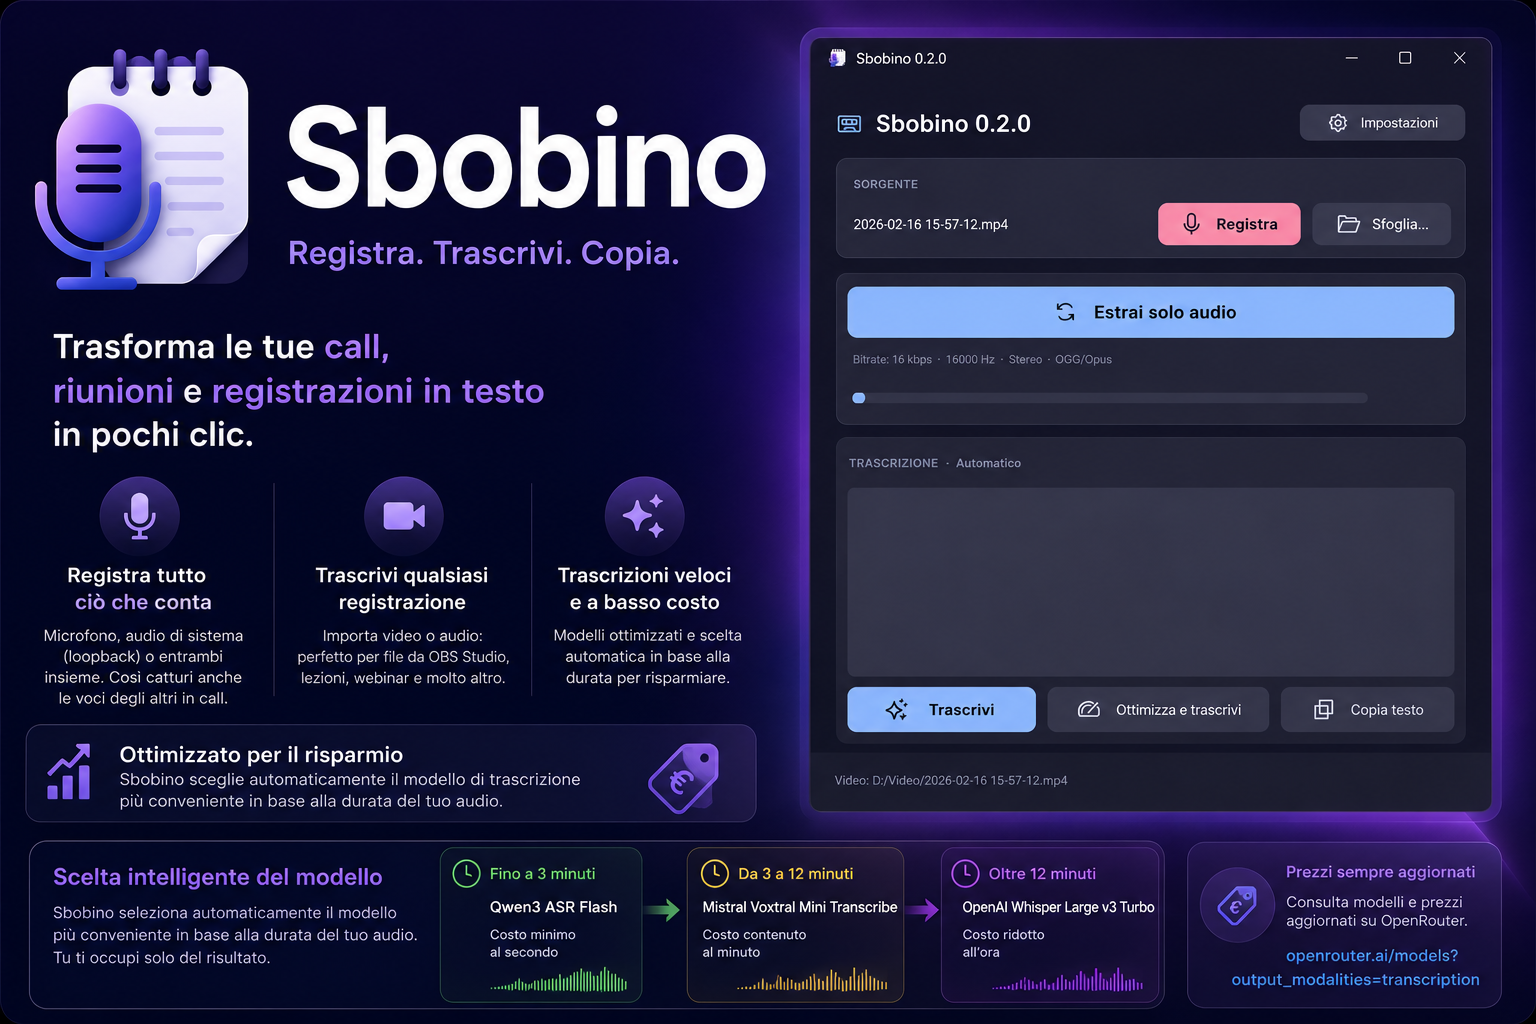
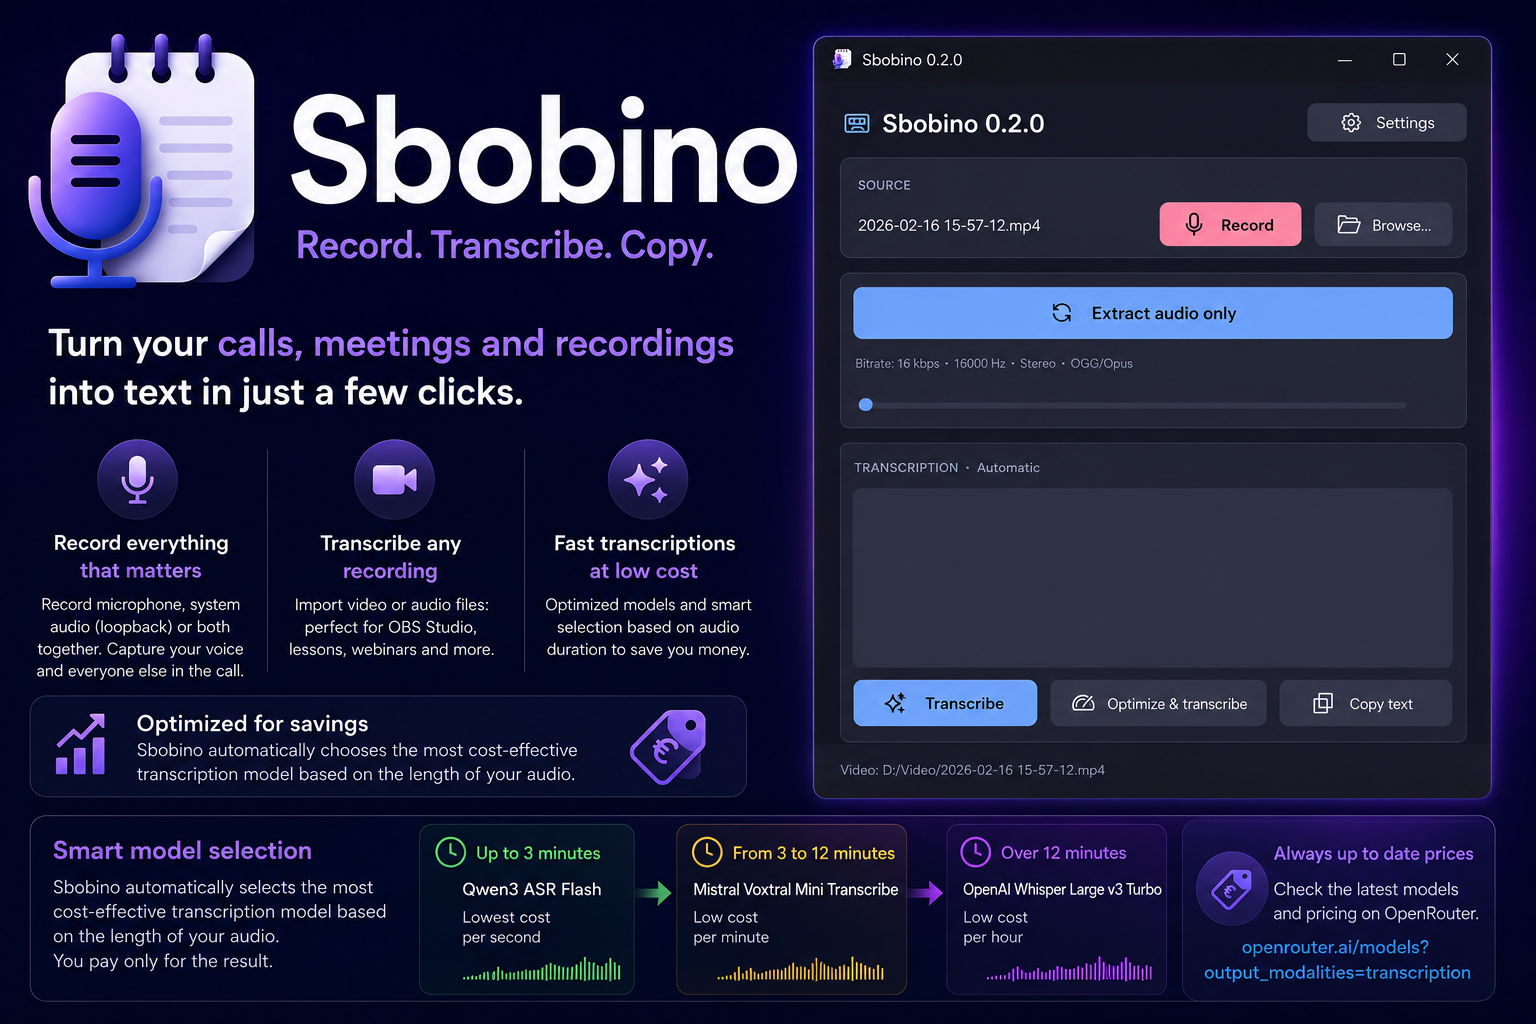
Update cover image and add new cover-it image

diff --git a/README.md b/README.md
@@ -1,136 +1,141 @@
 # Sbobino
 
 <p align="center">
-  <img src=".github/images/cover.png" alt="Sbobino - registra, trascrivi, copia" width="100%">
+  <img src=".github/images/cover.png" alt="Sbobino - record, transcribe, copy" width="100%">
 </p>
-Sbobino è un’app desktop per Windows pensata per registrare e trascrivere call, lezioni, webinar, video e contenuti audio senza dover usare strumenti complessi da riga di comando.
 
-Il suo punto forte è il registratore integrato: puoi registrare solo il microfono, solo l’audio del computer tramite loopback, oppure entrambi insieme. In questo modo, durante una call, puoi catturare sia la tua voce sia quella delle altre persone e ottenere una trascrizione unica, pronta da copiare.
+Sbobino is a desktop app for Windows designed to record and transcribe calls, lessons, webinars, videos, and audio content without having to use complex command-line tools.
 
-Sbobino può anche lavorare su file già esistenti, per esempio una registrazione fatta con OBS Studio, un video salvato, una lezione registrata o un file audio. L’app estrae e prepara l’audio, lo invia a OpenRouter e restituisce il testo trascritto.
+Its main strength is the built-in recorder: you can record only the microphone, only the computer audio via loopback, or both together. This way, during a call, you can capture both your voice and the voices of the other people and get a single transcription, ready to copy.
+
+Sbobino can also work with existing files, such as a recording made with OBS Studio, a saved video, a recorded lesson, or an audio file. The app extracts and prepares the audio, sends it to OpenRouter, and returns the transcribed text.
 
 ## Features
 
-- Registra call e riunioni catturando microfono e audio di sistema insieme.
-- Supporta tre modalità di registrazione: microfono, loopback, microfono + loopback.
-- Trascrive video e registrazioni già esistenti, anche create con OBS Studio.
-- Estrae automaticamente l’audio dai video.
-- Converte l’audio in formato adatto alla trascrizione.
-- Ottimizza l’audio con rimozione dei silenzi e accelerazione del parlato.
-- Divide automaticamente i file audio grandi prima dell’upload.
-- Permette la scelta automatica o manuale del modello di trascrizione OpenRouter.
-- Mostra la trascrizione nell’app e permette di copiarla negli appunti.
-- Controlla la disponibilità di nuove versioni dalla repository pubblica delle release.
+- Records calls and meetings by capturing microphone and system audio together.
+- Supports three recording modes: microphone, loopback, microphone + loopback.
+- Transcribes videos and existing recordings, including those created with OBS Studio.
+- Automatically extracts audio from videos.
+- Converts audio into a format suitable for transcription.
+- Optimizes audio by removing silences and speeding up speech.
+- Automatically splits large audio files before upload.
+- Allows automatic or manual selection of the OpenRouter transcription model.
+- Displays the transcription inside the app and lets you copy it to the clipboard.
+- Checks for new versions from the public release repository.
 
-## Prerequisiti
+## Requirements
 
-Per usare Sbobino servono:
+To use Sbobino, you need:
 
 - Windows;
-- connessione internet attiva;
-- account OpenRouter;
-- chiave API personale di OpenRouter;
-- `ffmpeg`, necessario per estrarre e convertire l’audio;
-- dispositivi audio configurati correttamente, se vuoi registrare microfono o audio di sistema.
+- an active internet connection;
+- an OpenRouter account;
+- a personal OpenRouter API key;
+- `ffmpeg`, required to extract and convert audio;
+- correctly configured audio devices, if you want to record microphone or system audio.
 
-OpenRouter supporta API dedicate per la trascrizione audio tramite endpoint speech-to-text.
+OpenRouter supports dedicated APIs for audio transcription through speech-to-text endpoints.
 
-## Trascrizioni a basso costo
+## Low-cost transcriptions
 
-Uno degli obiettivi di Sbobino è rendere la trascrizione accessibile anche per registrazioni frequenti o di lunga durata. I modelli supportati da OpenRouter hanno costi molto bassi e l’app è progettata per scegliere automaticamente quello più conveniente in base alla durata dell’audio.
+One of Sbobino’s goals is to make transcription accessible even for frequent or long recordings. The models supported by OpenRouter have very low costs, and the app is designed to automatically choose the most cost-effective one based on the audio duration.
 
-Questo significa che una breve nota vocale, una call di pochi minuti e una registrazione lunga non vengono trattate allo stesso modo: Sbobino seleziona il modello più adatto per ridurre il costo complessivo della trascrizione.
+This means that a short voice note, a call lasting a few minutes, and a long recording are not handled in the same way: Sbobino selects the most suitable model to reduce the overall transcription cost.
 
-Indicativamente, la selezione automatica può funzionare così:
+As a guideline, automatic selection may work like this:
 
-- audio brevi: **Qwen3 ASR Flash**;
-- audio medi: **Mistral Voxtral Mini Transcribe**;
-- audio lunghi: **OpenAI Whisper Large v3 Turbo**.
+- short audio: **Qwen3 ASR Flash**;
+- medium-length audio: **Mistral Voxtral Mini Transcribe**;
+- long audio: **OpenAI Whisper Large v3 Turbo**.
 
-I costi effettivi dipendono dal listino aggiornato di OpenRouter e dai modelli disponibili al momento dell’utilizzo. Per consultare prezzi, provider e modelli aggiornati, fai riferimento alla pagina ufficiale:
+Actual costs depend on OpenRouter’s updated pricing and on the models available at the time of use. To check updated prices, providers, and models, refer to the official page:
 
-[Modelli di trascrizione disponibili su OpenRouter](https://openrouter.ai/models?output_modalities=transcription)
+[Available transcription models on OpenRouter](https://openrouter.ai/models?output_modalities=transcription)
 
-## Installazione
+## Installation
 
-### 1. Scarica Sbobino
+### 1. Download Sbobino
 
-1. Vai nella pagina delle release del progetto.
-2. Scarica l’ultima versione disponibile.
-3. Estrai il file `.zip` in una cartella a tua scelta.
-4. Avvia `Sbobino.exe`.
+1. Go to the project’s releases page.
+2. Download the latest available version.
+3. Extract the `.zip` file into a folder of your choice.
+4. Run `Sbobino.exe`.
 
-Sbobino è portable: non richiede installazione tradizionale.
+Sbobino is portable: it does not require a traditional installation.
 
-### 2. Installa ffmpeg
+### 2. Install ffmpeg
 
-Sbobino usa `ffmpeg` per estrarre l’audio dai video e prepararlo alla trascrizione.
+Sbobino uses `ffmpeg` to extract audio from videos and prepare it for transcription.
 
-Puoi configurarlo in uno di questi due modi:
+You can configure it in one of these two ways:
 
-#### Opzione A: ffmpeg nella cartella di Sbobino
+#### Option A: ffmpeg in the Sbobino folder
 
-1. Scarica una build Windows di `ffmpeg`.
-2. Estrai l’archivio scaricato.
-3. Trova il file `ffmpeg.exe`.
-4. Copia `ffmpeg.exe` nella stessa cartella di `Sbobino.exe`.
+1. Download a Windows build of `ffmpeg`.
+2. Extract the downloaded archive.
+3. Find the `ffmpeg.exe` file.
+4. Copy `ffmpeg.exe` into the same folder as `Sbobino.exe`.
 
-Questa è l’opzione più semplice se vuoi tenere tutto nella stessa cartella.
+This is the simplest option if you want to keep everything in the same folder.
 
-#### Opzione B: ffmpeg nel PATH di Windows
+#### Option B: ffmpeg in the Windows PATH
 
-1. Scarica ed estrai `ffmpeg`.
-2. Copia il percorso della cartella che contiene `ffmpeg.exe`.
-3. Aggiungi quel percorso alle variabili d’ambiente di Windows, nella voce `Path`.
-4. Riavvia Sbobino.
+1. Download and extract `ffmpeg`.
+2. Copy the path of the folder containing `ffmpeg.exe`.
+3. Add that path to the Windows environment variables under `Path`.
+4. Restart Sbobino.
 
-Per verificare che `ffmpeg` sia disponibile, puoi aprire il Prompt dei comandi e scrivere:
+To check that `ffmpeg` is available, you can open Command Prompt and type:
 
 ```bash
 ffmpeg -version
 ```
 
-Se compare la versione installata, `ffmpeg` è configurato correttamente.
+If the installed version appears, `ffmpeg` is configured correctly.
 
-## Uso
+## Usage
 
-### Registrare una call
+### Recording a call
 
-1. Apri Sbobino.
-2. Scegli la modalità di registrazione:
-   - microfono;
-   - audio di sistema;
-   - microfono + audio di sistema.
+1. Open Sbobino.
 
-3. Avvia la registrazione prima o durante la call.
-4. Ferma la registrazione quando hai finito.
-5. Avvia la trascrizione.
-6. Copia il testo ottenuto.
+2. Choose the recording mode:
+   - microphone;
+   - system audio;
+   - microphone + system audio.
 
-Questa modalità è utile per riunioni online, lezioni in streaming, webinar e conversazioni in cui vuoi registrare sia la tua voce sia quella degli altri partecipanti.
+3. Start recording before or during the call.
 
-### Trascrivere un video già registrato
+4. Stop recording when you are done.
 
-Puoi usare Sbobino anche con file creati da OBS Studio o da altri programmi di registrazione.
+5. Start the transcription.
+
+6. Copy the resulting text.
+
+This mode is useful for online meetings, streaming lessons, webinars, and conversations where you want to record both your voice and the voices of the other participants.
+
+### Transcribing an already recorded video
+
+You can also use Sbobino with files created by OBS Studio or other recording programs.
 
 ```text
-1. Registra un video con OBS Studio
-2. Apri Sbobino
-3. Seleziona il file video
-4. Sbobino estrae automaticamente l’audio
-5. L’audio viene preparato per la trascrizione
-6. La trascrizione viene mostrata nell’app
+1. Record a video with OBS Studio
+2. Open Sbobino
+3. Select the video file
+4. Sbobino automatically extracts the audio
+5. The audio is prepared for transcription
+6. The transcription is shown inside the app
 ```
 
 ## Disclaimer
 
-Sbobino è uno strumento tecnico per registrare, convertire e trascrivere contenuti audio o video. L’utente è l’unico responsabile dell’uso che ne fa.
+Sbobino is a technical tool for recording, converting, and transcribing audio or video content. The user is solely responsible for how they use it.
 
-Prima di registrare, trascrivere o caricare contenuti su servizi esterni, assicurati di avere il diritto di farlo. In particolare, devi verificare che:
+Before recording, transcribing, or uploading content to external services, make sure you have the right to do so. In particular, you must verify that:
 
-- le persone coinvolte siano state informate e, quando necessario, abbiano autorizzato la registrazione;
-- il contenuto non violi diritti di terzi, inclusi diritti d’autore, diritti connessi, riservatezza, segreti professionali o obblighi contrattuali;
-- l’uso della registrazione e della trascrizione sia conforme alle leggi applicabili in materia di privacy, protezione dei dati personali e copyright;
-- eventuali piattaforme, servizi o contenuti registrati consentano questo tipo di utilizzo.
+- the people involved have been informed and, where necessary, have authorized the recording;
+- the content does not violate third-party rights, including copyright, related rights, confidentiality, professional secrecy, or contractual obligations;
+- the use of the recording and transcription complies with applicable laws on privacy, personal data protection, and copyright;
+- any platforms, services, or recorded content allow this type of use.
 
-L’autore del progetto non è responsabile per usi impropri, non autorizzati o illeciti dell’applicazione. Sbobino non aggira protezioni tecniche, non concede diritti sui contenuti trattati e non sostituisce una valutazione legale sull’uso delle registrazioni.
+The project author is not responsible for improper, unauthorized, or unlawful use of the application. Sbobino does not bypass technical protections, does not grant rights over the processed content, and does not replace a legal assessment of the use of recordings.
